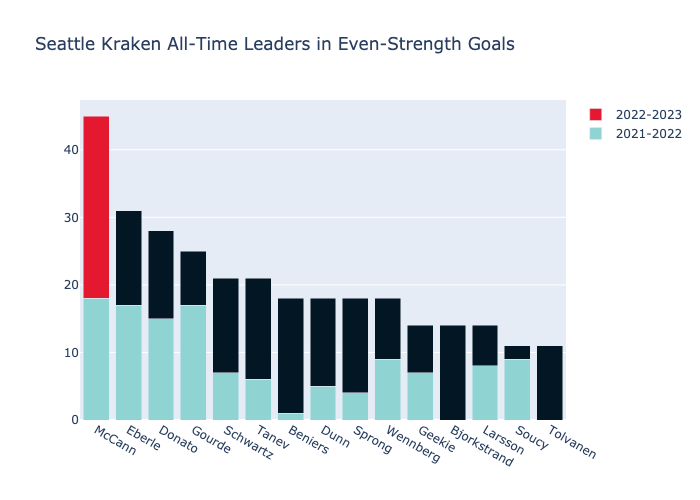
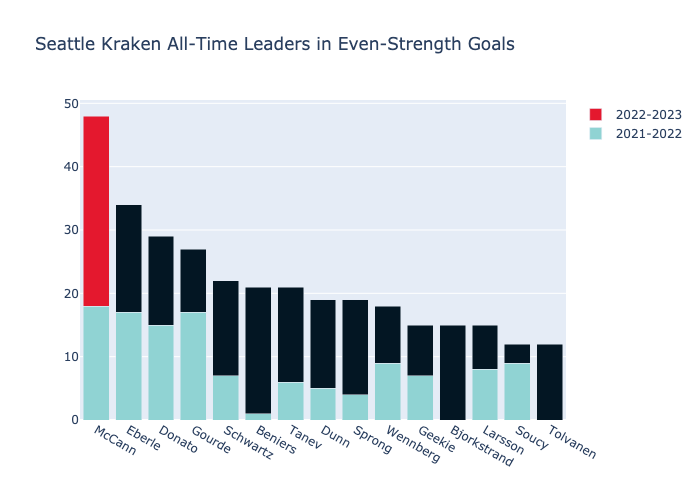
Basic charts complete with the stats at the end of the 2022-2023 regular season. Powerplay points have been added.

diff --git a/main.py b/main.py
@@ -34,6 +34,9 @@ for f in sorted(glob.glob("season*.csv")):
     #print(data[-1]["GWG"])
 stacked_df = pd.concat(df.assign(Season = season) for df, season in zip(data, seasons)).reset_index(drop=True)
 
+# Adding additional stats
+stacked_df["PPP"] = stacked_df["PPG"] + stacked_df["PPA"]
+
 number_seasons = len(seasons)
 # Build list of unique players
 list_players = stacked_df.Player.unique().tolist()
@@ -120,7 +123,7 @@ def plotAlltimeLeaders(stat, statName, num, singleSeasonRecord, team):
     fig.update_layout(title_text=f"{team} All-Time Leaders in {statName}")
     #fig.show()
     fig.write_image(f"top_leaders_{stat}_stacked.png")
-
+    fig.write_html(f"top_leaders_{stat}_stacked.html")
 team = "Seattle Kraken"
 statName = {"GP": "Games Played",
             "G": "Goals Scored",
@@ -133,13 +136,14 @@ statName = {"GP": "Games Played",
             "GWG": "Game-Winnning Goals",
             "EVA": "Even-Strength Assists",
             "PPA": "Powerplay Assists",
+            "PPP": "Powerplay Points",
             "SHA": "Short-handed Assists",
             "S": "Shots On Goal",
             "BLK": "Blocked Shots",
             "HIT": "Hits"
             }
 single_season_records = {}
-for stat in ["GP", "G", "A", "PTS", "PIM", "EVG", "PPG", "SHG", "GWG", "EVA", "PPA", "SHA", "S", "BLK", "HIT"]:
+for stat in ["GP", "G", "A", "PTS", "PIM", "EVG", "PPG", "SHG", "GWG", "EVA", "PPA", "PPP", "SHA", "S", "BLK", "HIT"]:
     single_season_records[stat] = stacked_df[stacked_df.Season != 'Total'][stat].max()
     plotAlltimeLeaders(stat, statName[stat], 15, single_season_records[stat], team)
 # TODO
